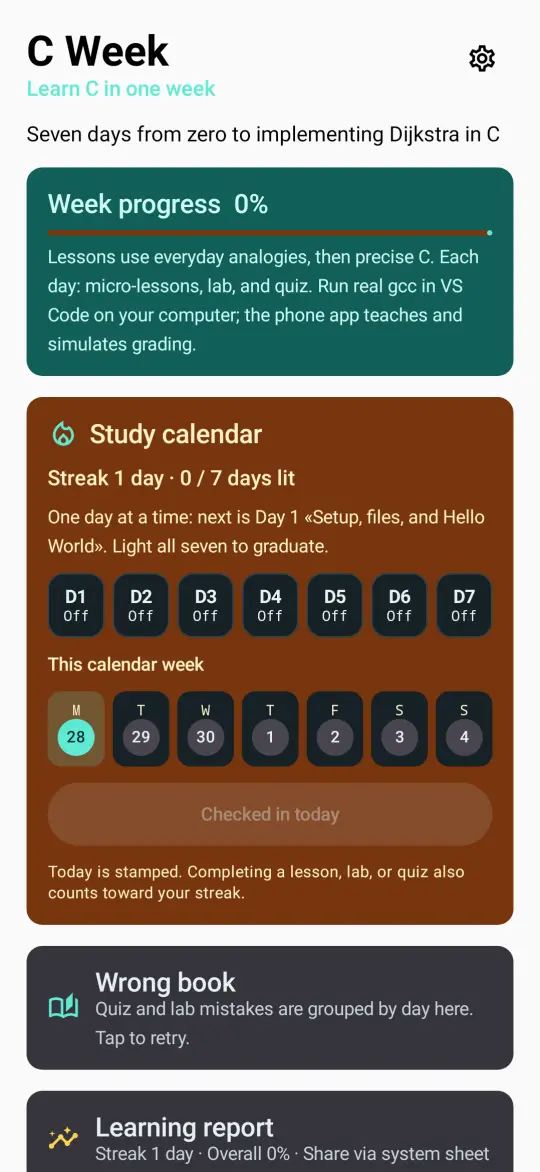
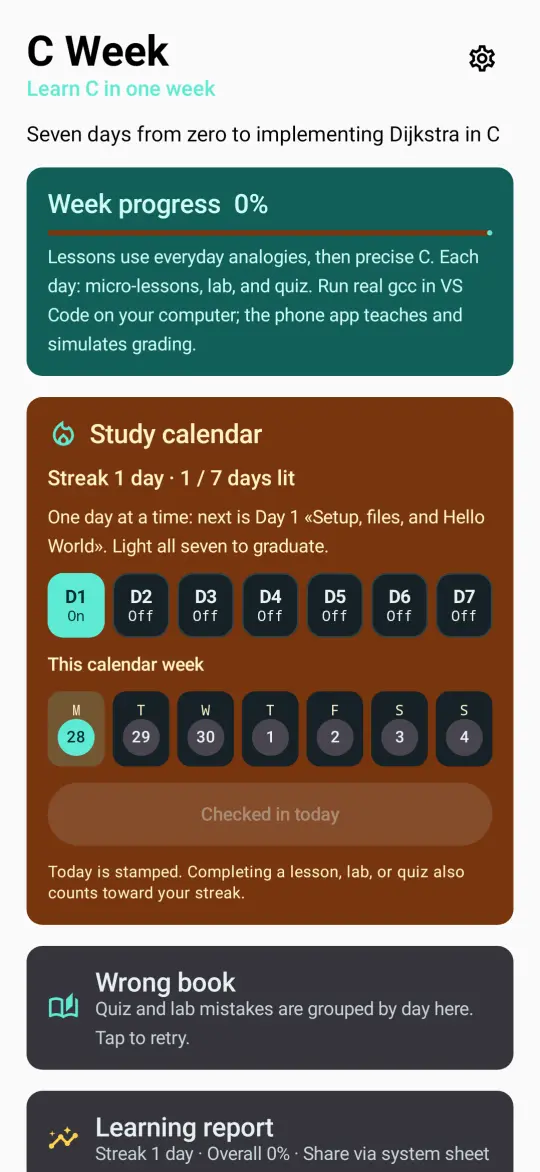
Fix days-lit copy to always use 'days lit' after / 7
Use a plain string for the calendar segment; align Roborazzi demo data
so lit count matches streak and refresh 01-home WebP (?v=7).

Changed region(s): [[0.0889, 0.4915, 0.2074, 0.5529], [0.3259, 0.3993, 0.3556, 0.43]]

diff --git a/app/src/test/java/com/py2c/week/ui/home/HomeScreenRoborazziTest.kt b/app/src/test/java/com/py2c/week/ui/home/HomeScreenRoborazziTest.kt
@@ -70,6 +70,7 @@ class HomeScreenRoborazziTest {
             locale = AppLocale.EN,
             darkTheme = false,
             streakDays = 1,
+            litDays = 1,
             output = "/opt/cursor/artifacts/cweek-home-en-light-streak1.png",
         )
     }
@@ -80,6 +81,7 @@ class HomeScreenRoborazziTest {
             locale = AppLocale.EN,
             darkTheme = true,
             streakDays = 1,
+            litDays = 1,
             output = "/opt/cursor/artifacts/cweek-home-en-dark-streak1.png",
         )
     }
@@ -90,6 +92,7 @@ class HomeScreenRoborazziTest {
             locale = AppLocale.EN,
             darkTheme = false,
             streakDays = 2,
+            litDays = 2,
             output = "/opt/cursor/artifacts/cweek-home-en-light-streak2.png",
         )
     }
@@ -100,6 +103,7 @@ class HomeScreenRoborazziTest {
             locale = AppLocale.EN,
             darkTheme = true,
             streakDays = 2,
+            litDays = 2,
             output = "/opt/cursor/artifacts/cweek-home-en-dark-streak2.png",
         )
     }
@@ -108,13 +112,18 @@ class HomeScreenRoborazziTest {
         locale: AppLocale,
         darkTheme: Boolean,
         streakDays: Int,
+        litDays: Int = streakDays,
         output: String,
     ) {
         val context = ApplicationProvider.getApplicationContext<android.content.Context>()
         val container = AppContainer(context)
         val curriculum = container.curriculumFor(locale)
         val checkins = (0 until streakDays).map { fixedToday.minusDays(it.toLong()).toString() }.toSet()
-        val progress = ProgressSnapshot(checkinDates = checkins)
+        val checkedCourseDays = (1..litDays).toSet()
+        val progress = ProgressSnapshot(
+            checkinDates = checkins,
+            checkedCourseDays = checkedCourseDays,
+        )
         val strings = stringsFor(locale, context.resources)
 
         composeRule.setContent {

diff --git a/site/en/c-week/index.html b/site/en/c-week/index.html
@@ -249,7 +249,7 @@
                       <div class="phone-frame screenshot-phone">
                         <div class="phone-notch"><span></span></div>
                         <div class="phone-screen">
-                          <img src="/assets/screens/en/light/cweek/01-home.webp?v=6" width="540" height="1171" loading="lazy" data-screenshot-rel="cweek/01-home.webp" alt="C Week home screen with the 7-day path and overall progress" />
+                          <img src="/assets/screens/en/light/cweek/01-home.webp?v=7" width="540" height="1171" loading="lazy" data-screenshot-rel="cweek/01-home.webp" alt="C Week home screen with the 7-day path and overall progress" />
                         </div>
                       </div>
                       <figcaption class="screenshot-caption">Week home · 7-day path and progress</figcaption>
@@ -457,7 +457,7 @@
               <div class="phone-frame screenshot-phone">
                 <div class="phone-notch"><span></span></div>
                 <div class="phone-screen">
-                  <img src="/assets/screens/en/light/cweek/01-home.webp?v=6" width="540" height="1171" loading="lazy" data-screenshot-rel="cweek/01-home.webp" alt="C Week home screen with the 7-day path and overall progress" />
+                  <img src="/assets/screens/en/light/cweek/01-home.webp?v=7" width="540" height="1171" loading="lazy" data-screenshot-rel="cweek/01-home.webp" alt="C Week home screen with the 7-day path and overall progress" />
                 </div>
               </div>
               <figcaption class="screenshot-caption">Week home · 7-day path and progress</figcaption>

diff --git a/site/c-week/index.html b/site/c-week/index.html
@@ -249,7 +249,7 @@
                       <div class="phone-frame screenshot-phone">
                         <div class="phone-notch"><span></span></div>
                         <div class="phone-screen">
-                          <img src="/assets/screens/cweek/01-home.webp?v=6" width="540" height="1171" loading="lazy" data-screenshot-rel="cweek/01-home.webp" alt="C一周通本周课程首页，7 天路线与总体进度" />
+                          <img src="/assets/screens/cweek/01-home.webp?v=7" width="540" height="1171" loading="lazy" data-screenshot-rel="cweek/01-home.webp" alt="C一周通本周课程首页，7 天路线与总体进度" />
                         </div>
                       </div>
                       <figcaption class="screenshot-caption">本周课程首页 · 7 天路线与进度</figcaption>
@@ -457,7 +457,7 @@
               <div class="phone-frame screenshot-phone">
                 <div class="phone-notch"><span></span></div>
                 <div class="phone-screen">
-                  <img src="/assets/screens/cweek/01-home.webp?v=6" width="540" height="1171" loading="lazy" data-screenshot-rel="cweek/01-home.webp" alt="C一周通本周课程首页，7 天路线与总体进度" />
+                  <img src="/assets/screens/cweek/01-home.webp?v=7" width="540" height="1171" loading="lazy" data-screenshot-rel="cweek/01-home.webp" alt="C一周通本周课程首页，7 天路线与总体进度" />
                 </div>
               </div>
               <figcaption class="screenshot-caption">本周课程首页 · 7 天路线与进度</figcaption>

diff --git a/site/index.html b/site/index.html
@@ -544,7 +544,7 @@
                     <div class="phone-frame screenshot-phone">
                       <div class="phone-notch"><span></span></div>
                       <div class="phone-screen">
-                        <img src="/assets/screens/cweek/01-home.webp?v=6" width="540" height="1171" loading="lazy" data-i18n-alt="cweek.hero.gallery.s01.alt" alt="C一周通本周课程首页，7 天路线与总体进度" />
+                        <img src="/assets/screens/cweek/01-home.webp?v=7" width="540" height="1171" loading="lazy" data-i18n-alt="cweek.hero.gallery.s01.alt" alt="C一周通本周课程首页，7 天路线与总体进度" />
                       </div>
                     </div>
                     <figcaption class="screenshot-caption" data-i18n="cweek.hero.gallery.s01.caption">本周课程首页 · 7 天路线与进度</figcaption>

diff --git a/site/en/index.html b/site/en/index.html
@@ -532,7 +532,7 @@
                     <div class="phone-frame screenshot-phone">
                       <div class="phone-notch"><span></span></div>
                       <div class="phone-screen">
-                        <img src="/assets/screens/cweek/01-home.webp?v=6" width="540" height="1171" loading="lazy" data-i18n-alt="cweek.hero.gallery.s01.alt" alt="C Week home screen with the 7-day path and overall progress" />
+                        <img src="/assets/screens/cweek/01-home.webp?v=7" width="540" height="1171" loading="lazy" data-i18n-alt="cweek.hero.gallery.s01.alt" alt="C Week home screen with the 7-day path and overall progress" />
                       </div>
                     </div>
                     <figcaption class="screenshot-caption" data-i18n="cweek.hero.gallery.s01.caption">Week home · 7-day path and progress</figcaption>

diff --git a/app/src/main/java/com/py2c/week/ui/strings/StringsEn.kt b/app/src/main/java/com/py2c/week/ui/strings/StringsEn.kt
@@ -67,7 +67,7 @@ class StringsEn(private val resources: Resources) : AppStrings {
     override val calendarTitle = "Study calendar"
     override fun calendarStreak(streak: Int, litCount: Int): String {
         val streakPart = resources.getQuantityString(R.plurals.report_streak, streak, streak)
-        val litPart = resources.getQuantityString(R.plurals.days_lit_of_seven, litCount, litCount)
+        val litPart = resources.getString(R.string.days_lit_of_seven, litCount)
         return resources.getString(R.string.calendar_streak_join, streakPart, litPart)
     }
     override fun calendarNudgeAllDone() = "All seven days lit — week complete. Re-run Dijkstra with gcc on your computer."

diff --git a/app/src/test/java/com/py2c/week/ui/strings/StringsEnPluralsTest.kt b/app/src/test/java/com/py2c/week/ui/strings/StringsEnPluralsTest.kt
@@ -19,7 +19,8 @@ class StringsEnPluralsTest {
     @Test
     fun streakUsesSingularForOne() {
         assertEquals("Streak 1 day", strings.reportStreak(1))
-        assertEquals("Streak 1 day · 1 / 7 day lit", strings.calendarStreak(1, 1))
+        assertEquals("Streak 1 day · 0 / 7 days lit", strings.calendarStreak(1, 0))
+        assertEquals("Streak 1 day · 1 / 7 days lit", strings.calendarStreak(1, 1))
         assertEquals("Streak 1 day · Overall 0% · Share via system sheet", strings.homeReportBody(1, 0))
     }
 
